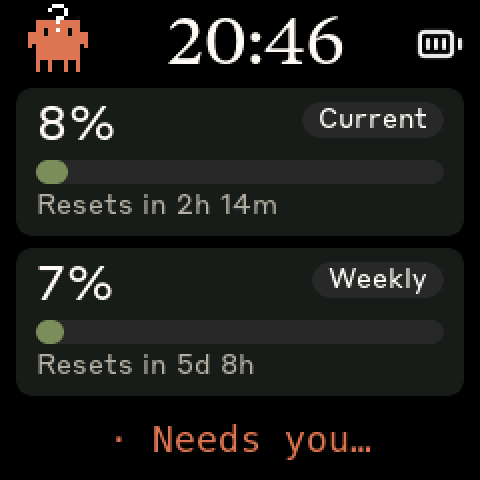
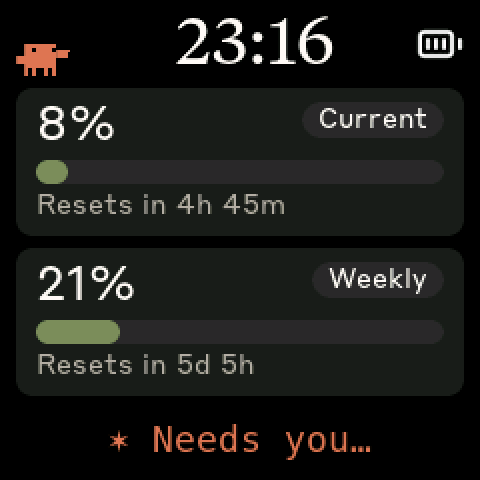
README: LCD-1.54 screenshots with the official animations

diff --git a/README.md b/README.md
@@ -84,7 +84,7 @@ The device boots into the splash. Tap the screen anywhere to switch to the Usage
 | Splash | Usage |
 | :----: | :---: |
 | ![Splash](screenshots/lcd_154/splash.png) | ![Usage](screenshots/lcd_154/usage.png) |
-| Splash: Clawd at work while Claude Code runs a tool | Usage: corner buddy and footer saying Claude needs your permission |
+| Splash: official Clawd on the laptop while Claude Code runs a tool | Usage: corner mascot pointing, footer saying Claude needs your permission |
 
 <sub>Captured from an ESP32-S3-Touch-LCD-1.54 running this branch, with the macOS daemon's `activity = on`.</sub>
 
